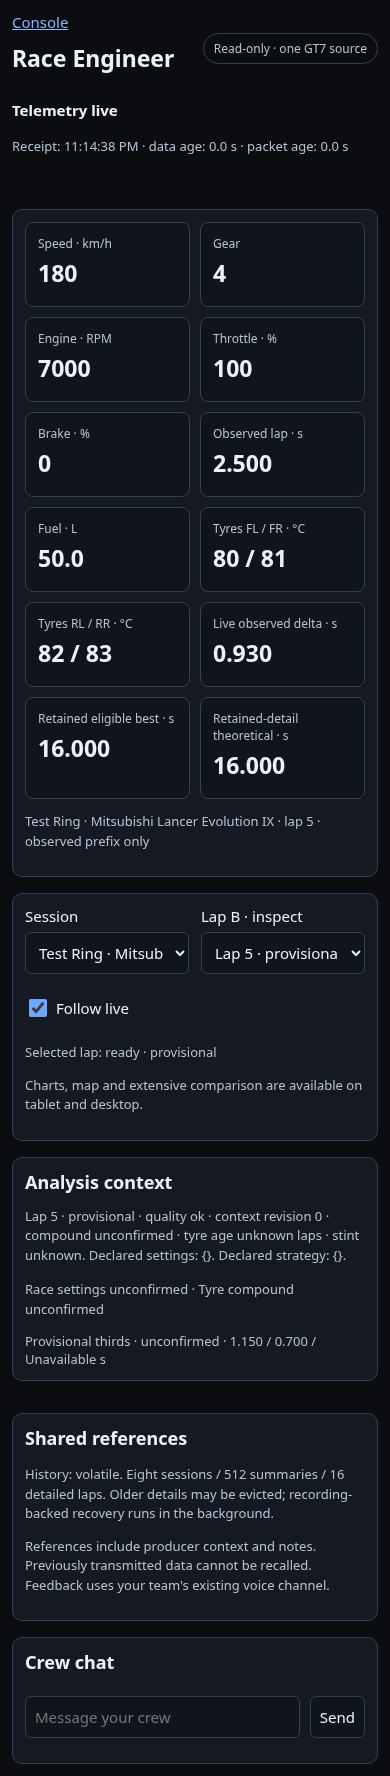
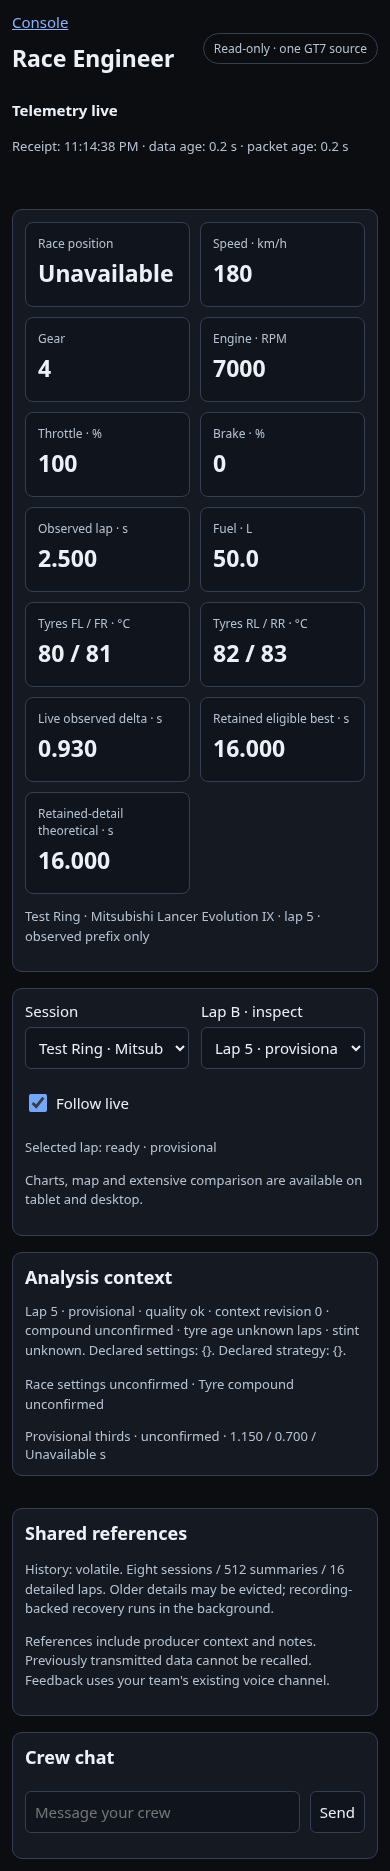
feat: publish measured GT7 race and lap-line position

diff --git a/src/console/race-engineer.html b/src/console/race-engineer.html
@@ -13,6 +13,7 @@
 <p id="status" role="status">Checking current access…</p><p id="receipt" class="sub">Waiting for measured telemetry</p><p id="notice" role="status"></p>
 <div id="protected" hidden>
 <section aria-label="Live instruments"><div id="instruments">
+<div class="value"><span>Race position</span><strong id="race-position">Unavailable</strong></div>
 <div class="value"><span>Speed · km/h</span><strong id="speed">Unavailable</strong></div><div class="value"><span>Gear</span><strong id="gear">Unavailable</strong></div><div class="value"><span>Engine · RPM</span><strong id="rpm">Unavailable</strong></div><div class="value"><span>Throttle · %</span><strong id="throttle">Unavailable</strong></div><div class="value"><span>Brake · %</span><strong id="brake">Unavailable</strong></div><div class="value"><span>Observed lap · s</span><strong id="lap-time">Unavailable</strong></div>
 <div class="value"><span>Fuel · L</span><strong id="fuel">Unavailable</strong></div><div class="value"><span>Tyres FL / FR · °C</span><strong id="tyres-front">Unavailable</strong></div><div class="value"><span>Tyres RL / RR · °C</span><strong id="tyres-rear">Unavailable</strong></div><div class="value"><span>Live observed delta · s</span><strong id="delta">Unavailable</strong></div><div class="value"><span>Retained eligible best · s</span><strong id="best">Unavailable</strong></div><div class="value"><span>Retained-detail theoretical · s</span><strong id="theory">Unavailable</strong></div>
 </div><p id="source-state" class="sub"></p></section>
@@ -48,7 +49,7 @@ async function request(route,query={},method='GET',body=null){
 }
 function resetGeneration(generation){if(state.generation&&state.generation!==generation){state.epoch++;state.laps=[];state.sessions=[];state.known.clear();state.historyRevision=null;state.a=state.b=state.session=state.refSource='';state.refLaps=[];state.zoom=null;state.newLaps=0;clearPlots();say('Relay restarted. A new live generation is active; previous recordings remain history.');}state.generation=generation;}
 function options(id,rows,selected,empty){const el=$(id);el.replaceChildren();if(empty!==undefined){const o=document.createElement('option');o.value='';o.textContent=empty;el.append(o);}for(const row of rows){const o=document.createElement('option');o.value=row.id;o.textContent=row.label;el.append(o);}if(selected&&!rows.some(r=>r.id===selected)){const o=document.createElement('option');o.value=selected;o.textContent='Unavailable selection';el.append(o);}el.value=selected;}
-function lapLabel(r){return `Lap ${r.lap} · ${r.state==='provisional'?'provisional':num(r.time_s,3)+' s'}${r.detail_state==='evicted'?' · evicted':''}${!r.comparison_eligible&&r.state!=='provisional'?' · limited':''}`;}
+function lapLabel(r){return `Lap ${r.lap} · ${r.state==='provisional'?'provisional':num(r.time_s,3)+' s'}${r.line_position!=null&&r.line_car_count!=null?' · finish P'+r.line_position+'/'+r.line_car_count:''}${r.detail_state==='evicted'?' · evicted':''}${!r.comparison_eligible&&r.state!=='provisional'?' · limited':''}`;}
 function carLabel(row){return row.car||('car '+(row.car_id??'unknown'));}
 function referenceLabel(row){const source=row.session_id?.split(':')[1];return state.refs.find(r=>r.id===source)?.label||'Shared reference';}
 function selections(){
@@ -65,7 +66,7 @@ function selections(){
  options('reference-source',state.refs.map(r=>({id:r.id,label:r.label})),state.refSource,'Selected session');
  $('follow').checked=state.follow;$('new-laps').textContent=state.newLaps?`${state.newLaps} newly completed lap${state.newLaps===1?'':'s'}`:'';
 }
-function instruments(snap){const v=snap.instruments||{};for(const [id,value,d] of [['speed',v.speed_kmh,0],['gear',v.gear,0],['rpm',v.rpm,0],['throttle',v.throttle,0],['brake',v.brake,0],['fuel',v.fuel_l,1],['lap-time',snap.current?.elapsed_s,3],['best',snap.best_s,3],['theory',snap.theoretical_s,3]])$(id).textContent=num(value,d);
+function instruments(snap){const v=snap.instruments||{};$('race-position').textContent=v.race_position!=null&&v.car_count!=null?`P${v.race_position}/${v.car_count}`:'Unavailable';for(const [id,value,d] of [['speed',v.speed_kmh,0],['gear',v.gear,0],['rpm',v.rpm,0],['throttle',v.throttle,0],['brake',v.brake,0],['fuel',v.fuel_l,1],['lap-time',snap.current?.elapsed_s,3],['best',snap.best_s,3],['theory',snap.theoretical_s,3]])$(id).textContent=num(value,d);
  const tyres=v.tyres_c||[];$('tyres-front').textContent=num(tyres[0],0)+' / '+num(tyres[1],0);$('tyres-rear').textContent=num(tyres[2],0)+' / '+num(tyres[3],0);
  $('source-state').textContent=snap.current?`${snap.current.track||'Unknown track'} · ${snap.current.car||'Unknown car'} · lap ${snap.current.lap} · observed prefix only`:'Waiting for a lap';
  $('history-state').textContent=`History: ${snap.history}. Eight sessions / 512 summaries / 16 detailed laps. Older details may be evicted; recording-backed recovery runs in the background.`;

diff --git a/tests/test_engineer_race_position.py b/tests/test_engineer_race_position.py
@@ -1,0 +1,115 @@
+"""Measured race-position parsing, lap-line preservation and public projection."""
+import json
+import math
+import struct
+import sys
+import tempfile
+from pathlib import Path
+
+ROOT = Path(__file__).resolve().parents[1]
+sys.path.insert(0, str(ROOT / 'src' / 'scripts'))
+import gt7_telemetry as tm
+import gt7_laps
+import gt7_recording
+import race_engineer_live as live
+import race_engineer_api as api
+from test_gt7_laps import _pkt, FakeTracks, FakeCars
+
+
+def packet(lap=1, position=15, cars=15, angle=0, flags=None):
+    raw = bytearray(_pkt(lap, 50, angle))
+    struct.pack_into('<hh', raw, 0x84, position, cars)
+    if flags is not None:
+        struct.pack_into('<H', raw, tm.OFF_FLAGS, flags)
+    return bytes(raw)
+
+
+def t_valid_and_invalid_position_pairs():
+    for pos, count in [(15, 15), (1, 2), (2, 2), (1, 1), (32767, 32767)]:
+        for length in (0x128, 0x13c, 0x158):
+            parsed = tm.parse_packet(packet(position=pos, cars=count)[:length])
+            assert (parsed.race_position, parsed.car_count) == (pos, count), 'valid measured race position lost'
+    for pos, count in [(-1, -1), (0, 0), (1, 0), (-1, 15), (0, 15), (16, 15), (1, -1)]:
+        parsed = tm.parse_packet(packet(position=pos, cars=count))
+        assert parsed.race_position is None, 'invalid measured position accepted'
+        assert parsed.car_count == (count if count > 0 else None), 'invalid field size accepted'
+
+
+def t_snapshot_uses_measured_position_only():
+    with live.Store(lambda: True, tracks=FakeTracks(), cars=FakeCars()) as store:
+        service = api.Service(store)
+        try:
+            for offset, pos in enumerate((15, 7, 1)):
+                store.put(tm.parse_packet(packet(position=pos)), 100 + offset)
+                assert store.flush(10)
+                instruments = service.snapshot()['instruments']
+                assert (instruments['race_position'], instruments['car_count']) == (pos, 15)
+            for flags in (0, tm.FLAG_ON_TRACK | tm.FLAG_LOADING):
+                store.put(tm.parse_packet(packet(flags=flags)), 120)
+                assert store.flush(10)
+                instruments = service.snapshot()['instruments']
+                assert instruments['race_position'] is None and instruments['car_count'] is None, 'off-session race position retained'
+        finally:
+            service.close()
+
+
+def t_lap_line_position_matches_live_and_offline_index():
+    with tempfile.TemporaryDirectory() as root:
+        writer = gt7_recording.RecordingWriter(root, 'Solo', 'dev', queue_max=0)
+        # Position changes at the boundary. The previous packet's position is wrong.
+        for lap in range(1, 4):
+            for k in range(80):
+                writer.put(100 + (lap-1)*20 + k*.25, '~', packet(lap, position=lap if k == 0 else 15, angle=2*math.pi*k/80))
+        writer.close()
+        with live.Store(lambda: True, tracks=FakeTracks(), cars=FakeCars(), queue_max=4096) as store:
+            for wall, _, raw in gt7_recording.Recording(writer.path).packets():
+                store.put(tm.parse_packet(raw), wall)
+            assert store.flush(10)
+            service = api.Service(store)
+            try:
+                history = service.history(None)
+                lap = next(row for row in history['laps'] if row['lap'] == 2)
+                assert (lap['line_position'], lap['line_car_count']) == (3, 15), 'lap line used previous packet position'
+                assert service.snapshot()['current'].get('line_position') is None, 'unfinished lap claimed a finish position'
+                indexed = gt7_laps.index(writer.path, FakeTracks(), FakeCars(), root)
+                row = next(row for row in indexed['laps'] if row['lap'] == 2)
+                assert (row['line_position'], row['line_car_count']) == (3, 15), 'offline index lost lap-line position'
+                cache = Path(gt7_laps.cache_path(writer.path))
+                old = json.loads(cache.read_text()); old['version'] = 7
+                for cached in old['laps']:
+                    cached.pop('line_position', None); cached.pop('line_car_count', None)
+                cache.write_text(json.dumps(old))
+                rebuilt = gt7_laps.index(writer.path, FakeTracks(), FakeCars(), root)
+                assert next(r for r in rebuilt['laps'] if r['lap'] == 2)['line_position'] == 3, 'legacy index was not rebuilt'
+            finally:
+                service.close()
+
+
+
+def t_menu_boundary_does_not_claim_a_line_position():
+    for flags in (0, tm.FLAG_ON_TRACK | tm.FLAG_LOADING):
+        engine = tm.TelemetryEngine(); laps = []; engine.on_lap = laps.append
+        engine.update(tm.parse_packet(packet()), 100)
+        engine.update(tm.parse_packet(packet(lap=2, flags=flags)), 101)
+        assert laps[-1]['line_position'] is None, 'menu/loading packet claimed a line position'
+
+
+def t_missing_line_position_and_old_resume_packet():
+    engine = tm.TelemetryEngine()
+    laps = []; engine.on_lap = laps.append
+    engine.update(tm.parse_packet(packet(lap=1)), 100)
+    engine.update(tm.parse_packet(packet(lap=2, position=-1, cars=-1)), 101)
+    assert laps[-1]['line_position'] is None and laps[-1]['line_car_count'] is None
+    saved = engine.resume_state()
+    saved['last'].pop('race_position'); saved['last'].pop('car_count')
+    restored = tm.TelemetryEngine(); restored.restore(saved)
+    assert restored._last.race_position is None and restored._last.car_count is None
+    engine.update(tm.parse_packet(packet(lap=0, flags=0)), 102)
+    assert laps[-1]['reason'] == 'session change'
+    assert laps[-1]['line_position'] is None, 'abandoned lap claimed a line position'
+
+if __name__ == '__main__':
+    for name, fn in sorted(list(globals().items())):
+        if name.startswith('t_') and callable(fn):
+            fn()
+            print('PASS', name)

diff --git a/src/scripts/gt7_telemetry.py b/src/scripts/gt7_telemetry.py
@@ -35,6 +35,8 @@ OFF_LAP = 0x74          # current lap (int16)
 OFF_BEST_MS = 0x78      # best lap time, ms (int32; -1 = none)
 OFF_LAST_MS = 0x7C      # last lap time, ms (int32; -1 = none)
 OFF_DAY_PROGRESSION = 0x80  # time of day on track, ms since midnight (int32)
+OFF_RACE_POSITION = 0x84  # own race position (int16; -1 = no session)
+OFF_CAR_COUNT = 0x86      # number of cars (int16; -1 = no session)
 OFF_FLAGS = 0x8E        # simulator flags (uint16 bitfield)
 OFF_THROTTLE = 0x91     # 0-255 (uint8)
 OFF_BRAKE = 0x92        # 0-255 (uint8)
@@ -98,8 +100,8 @@ GT7Packet = namedtuple("GT7Packet", [
     "flags", "on_track", "paused", "loading",
     "car_id",
     "steer_rad", "sway", "heave", "surge", "throttle_input", "brake_input",
-    "gear", "rpm", "pos_x", "pos_y", "pos_z",
-], defaults=(None,) * 12)   # None when the packet is too short to carry the field
+    "gear", "rpm", "pos_x", "pos_y", "pos_z", "race_position", "car_count",
+], defaults=(None,) * 14)   # None when the packet is too short to carry the field
 
 
 def _opt_float(plain, off):
@@ -118,6 +120,9 @@ def parse_packet(plain):
     """Parse a decrypted packet buffer of any type into a GT7Packet. Fields the
     packet type does not carry are None."""
     flags = struct.unpack_from("<H", plain, OFF_FLAGS)[0]
+    position, cars = struct.unpack_from("<hh", plain, OFF_RACE_POSITION)
+    cars = cars if cars > 0 else None
+    position = position if cars is not None and 1 <= position <= cars else None
     return GT7Packet(
         speed_mps=struct.unpack_from("<f", plain, OFF_SPEED)[0],
         fuel_level=struct.unpack_from("<f", plain, OFF_FUEL_LEVEL)[0],
@@ -150,6 +155,7 @@ def parse_packet(plain):
         pos_x=struct.unpack_from("<f", plain, OFF_POS)[0],
         pos_y=struct.unpack_from("<f", plain, OFF_POS + 4)[0],
         pos_z=struct.unpack_from("<f", plain, OFF_POS + 8)[0],
+        race_position=position, car_count=cars,
     )
 
 
@@ -404,7 +410,7 @@ class TelemetryEngine:
         elif pkt.lap != self._lap_num:    # lap-change edge: this new lap starts at the line
             if self._acc is not None and now - self._acc.last_t > 2.0:
                 self._acc._reject("data gap over 2 s")
-            self._finalise_lap()
+            self._finalise_lap(pkt)
             if self._acc is not None:     # bank the closing lap's driven distance
                 self._session_dist_m += self._acc.distance
             self._lap_num = pkt.lap
@@ -504,10 +510,14 @@ class TelemetryEngine:
             return None
         return self._lap_record(self._acc, "not counted", "recording ended mid-lap", closed=False)
 
-    def _emit_lap(self, acc, status, reason, closed=True):
+    def _emit_lap(self, acc, status, reason, closed=True, line_packet=None):
         if self.on_lap is None:
             return
         record = self._lap_record(acc, status, reason, closed)
+        if line_packet is not None and (not line_packet.on_track or line_packet.loading):
+            line_packet = None
+        record["line_position"] = line_packet.race_position if line_packet is not None else None
+        record["line_car_count"] = line_packet.car_count if line_packet is not None else None
         try:
             self.on_lap(record)
         except Exception as e:  # noqa: BLE001  a lap consumer must never stop the telemetry
@@ -529,7 +539,7 @@ class TelemetryEngine:
         except Exception as e:  # noqa: BLE001  bad track data must not stop the telemetry
             LOG.warning("GT7 track recognition failed: %s", e)
 
-    def _finalise_lap(self):
+    def _finalise_lap(self, line_packet=None):
         acc = self._acc
         if acc is None:
             return
@@ -547,15 +557,15 @@ class TelemetryEngine:
         head = f"GT7 lap {self._lap_num} {_fmt_time(acc.elapsed)}"
         if why is not None:
             LOG.info("%s: not counted (%s)", head, why)
-            self._emit_lap(acc, "not counted", why)
+            self._emit_lap(acc, "not counted", why, line_packet=line_packet)
             return
         if self._ref is None or acc.elapsed < self._ref["time"]:
             self._ref = {"time": acc.elapsed, "samples": acc.samples}
             LOG.info("%s: new reference, delta vs this lap from now on", head)
-            self._emit_lap(acc, "reference", "")
+            self._emit_lap(acc, "reference", "", line_packet=line_packet)
         else:
             LOG.info("%s: counted", head)
-            self._emit_lap(acc, "counted", "")
+            self._emit_lap(acc, "counted", "", line_packet=line_packet)
         self._lap_time_sum += acc.elapsed
         self._lap_time_n += 1
         if acc.fuel_start is not None and acc.fuel_end is not None:

diff --git a/tools/e2e-engineer-desk.py b/tools/e2e-engineer-desk.py
@@ -17,6 +17,10 @@ async def main():
         fixture=Fixture(root)
         fixture.access().update(enabled=True,expected=0)
         server=fixture.console(with_live=True); fixture.feed_live()
+        import gt7_recording, gt7_telemetry
+        wall, _, raw = list(gt7_recording.Recording(fixture.live_path).packets())[-1]
+        fixture.live.put(gt7_telemetry.parse_packet(raw)._replace(race_position=15, car_count=15), wall + .02)
+        assert fixture.live.flush(10)
         try:
             async with async_playwright() as pw:
                 browser=await pw.chromium.launch(headless=True)
@@ -25,6 +29,8 @@ async def main():
                 await page.goto(f'http://127.0.0.1:{server.server_port}/console/race-engineer?t={token}')
                 await page.wait_for_function('() => document.getElementById("speed")?.textContent.includes("180")',timeout=5000)
                 assert await page.locator('#rpm').inner_text() == '7000'
+                assert await page.locator('#race-position').inner_text() == 'P15/15', 'measured race position missing'
+                assert 'finish P3/15' in await page.evaluate('() => lapLabel({lap:2,state:"confirmed",time_s:20,line_position:3,line_car_count:15,comparison_eligible:true})'), 'lap option lost line position'
                 await page.wait_for_function('() => EngineerDesk.state.historyRevision !== null')
                 assert 'Mitsubishi Lancer Evolution IX' in await page.locator('#session option:checked').inner_text(), 'session car name missing'
                 fallback = await page.evaluate('() => {const saved=EngineerDesk.state.sessions;EngineerDesk.state.sessions=saved.map(r=>({...r,car:null}));selections();const label=document.querySelector("#session option:checked").textContent;EngineerDesk.state.sessions=saved;selections();return label;}')
@@ -153,11 +159,14 @@ async def main():
                 async def missing_car(route):
                     response = await route.fetch(); data = await response.json()
                     data['instruments']['position'] = None
+                    data['instruments']['race_position'] = None
+                    data['instruments']['car_count'] = None
                     await route.fulfill(json=data)
                 await page.unroute('**/race-engineer/snapshot', moving_car)
                 await page.route('**/race-engineer/snapshot', missing_car)
                 await page.wait_for_function('() => EngineerDesk.state.snapshot?.instruments?.position === null')
                 assert await page.locator('#map circle').count() == 0, 'missing position retained a car marker'
+                assert await page.locator('#race-position').inner_text() == 'Unavailable', 'missing race position retained a place'
                 await page.unroute('**/race-engineer/snapshot', missing_car)
                 async def another_track(route):
                     response = await route.fetch(); data = await response.json()

diff --git a/src/scripts/gt7_laps.py b/src/scripts/gt7_laps.py
@@ -19,7 +19,7 @@ STEP_M = 5.0
 SECTOR_M = 200.0
 MAX_TRACE_M = gt7_telemetry.MAX_SAMPLES * gt7_telemetry.SAMPLE_MIN_DIST
 COUNTED = ("reference", "counted")
-INDEX_VERSION = 7
+INDEX_VERSION = 8
 CACHE_SUFFIX = ".laps.json"
 DECIMATE_M = 2.0              # finer samples add nothing to a 5 m trace
 RESUME_CHECK = 64             # bytes before a resume point that must be unchanged to continue there
@@ -458,6 +458,7 @@ def _indexed_lap(stem, lap, samples, tyres, first, track_db, cars, found, open_l
         "fuel_used_l": None if lap["fuel_used"] is None else round(lap["fuel_used"], 2),
         "fuel_start_l": lap.get("fuel_start_l"), "fuel_end_l": lap.get("fuel_end_l"),
         "top_speed_kmh": round(lap["top_speed_mps"] * 3.6, 1),
+        "line_position": lap.get("line_position"), "line_car_count": lap.get("line_car_count"),
         "car_id": lap["car_id"], "car": gt7_recording.car_name(cars, lap["car_id"]),
         "track_id": track_id,
         "track": found["track"] if track_id is not None else "",

diff --git a/src/scripts/race_engineer_live.py b/src/scripts/race_engineer_live.py
@@ -55,6 +55,8 @@ SUMMARY_FIELDS = frozenset((
     "length_m",
     "fuel_used_l",
     "top_speed_kmh",
+    "line_position",
+    "line_car_count",
     "lap_role",
     "after_service",
     "capture_complete",
@@ -143,6 +145,8 @@ def instruments(pkt):
         "position": {"x": x, "z": z}
         if pkt.on_track and not pkt.loading and x is not None and z is not None
         else None,
+        "race_position": pkt.race_position if pkt.on_track and not pkt.loading else None,
+        "car_count": pkt.car_count if pkt.on_track and not pkt.loading else None,
         "speed_kmh": _finite(pkt.speed_mps * 3.6),
         "gear": _finite(pkt.gear),
         "rpm": _finite(pkt.rpm),

diff --git a/src/scripts/race_engineer_api.py b/src/scripts/race_engineer_api.py
@@ -33,6 +33,8 @@ FIELDS = frozenset((
     "length_m",
     "fuel_used_l",
     "top_speed_kmh",
+    "line_position",
+    "line_car_count",
     "lap_role",
     "after_service",
     "capture_complete",

diff --git a/src/docs/design/engineer-race-position.md b/src/docs/design/engineer-race-position.md
@@ -1,0 +1,16 @@
+# Race position from GT7 telemetry
+
+Requirements and verification for #854 under #850.
+
+| Requirement | Production path | Positive proof | Failure proof | Runtime proof |
+| --- | --- | --- | --- | --- |
+| Parse own race position and field size | GT7 packet parser at 0x84/0x86 | P15/15, P1/2 and P2/2, packet A/B/~ | Sentinel/zero/negative count and position beyond field rejected | Synthetic packet decode |
+| Publish measured instruments | Live Store snapshot and signed API | Valid integer position/count | Menu/loading and inconsistent values unavailable | Real HTTP/browser |
+| Preserve position at the lap line | Engine closed lap, shared offline index, public summary | Boundary packet position survives live/index paths | Open/interrupted capture cannot claim a finish position | Recording with position changing at line |
+| Show position prominently and in lap options | Engineer desk | Pn/count tile and completed lap line position | Missing values remain unavailable; no invented competitor gaps | Three viewports and refreshed wiki screenshots |
+
+The protocol uses signed 16-bit values. A positive field size and a position from
+one through that size form a usable pair; no unverified game-specific maximum
+is imposed. The packet which advances the lap counter supplies the line position.
+An unfinished capture has no line position. Old recording indexes are rebuilt
+when their schema changes, while old resume packets remain compatible.

diff --git a/src/docs/wiki/Race-Engineer.md b/src/docs/wiki/Race-Engineer.md
@@ -11,10 +11,13 @@ the current Sheet webhook when adding the Crew field.
 ## Live values and analysis
 
 The desk reads the existing single GT7 source of a solo POV profile. Speed, gear,
-RPM, throttle/brake, observed lap time, fuel and tyre temperatures refresh roughly
+RPM, throttle/brake, race position, observed lap time, fuel and tyre temperatures refresh roughly
 twice per second. Missing measurements say **Unavailable**. The observed lap clock
 and live delta describe received data; neither advances without new packets.
-Receipt time, data age and packet age remain visible.
+Race position reads **P15/15**, for example, from GT7's own-car position and field
+size. Missing or inconsistent readings remain unavailable. Completed lap options
+include the position measured at the line when GT7 provided it. No gaps to
+other cars are inferred. Receipt time, data age and packet age remain visible.
 
 Select **Session** and **Lap B** to inspect retained current or prior-session laps.
 Sessions show the track, vehicle name and lap count; unknown names fall back to
